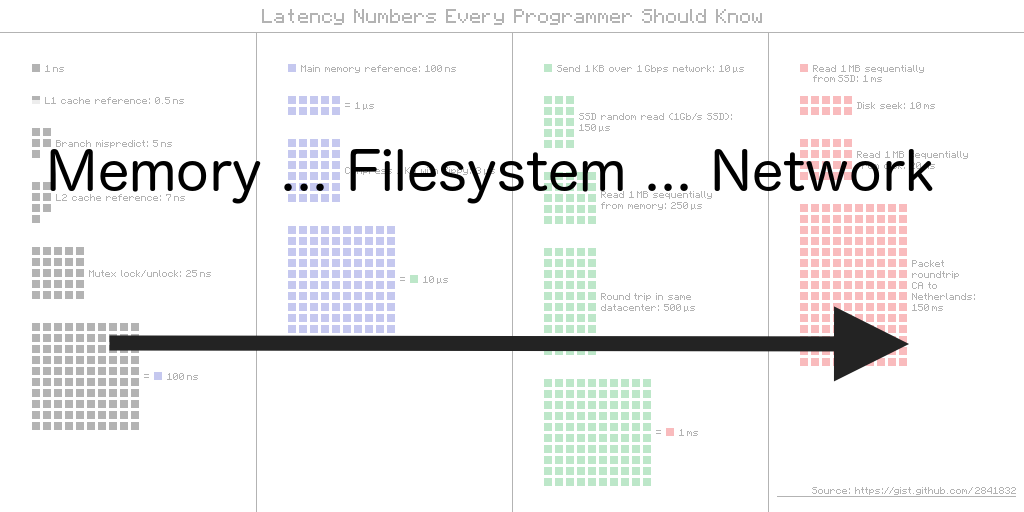
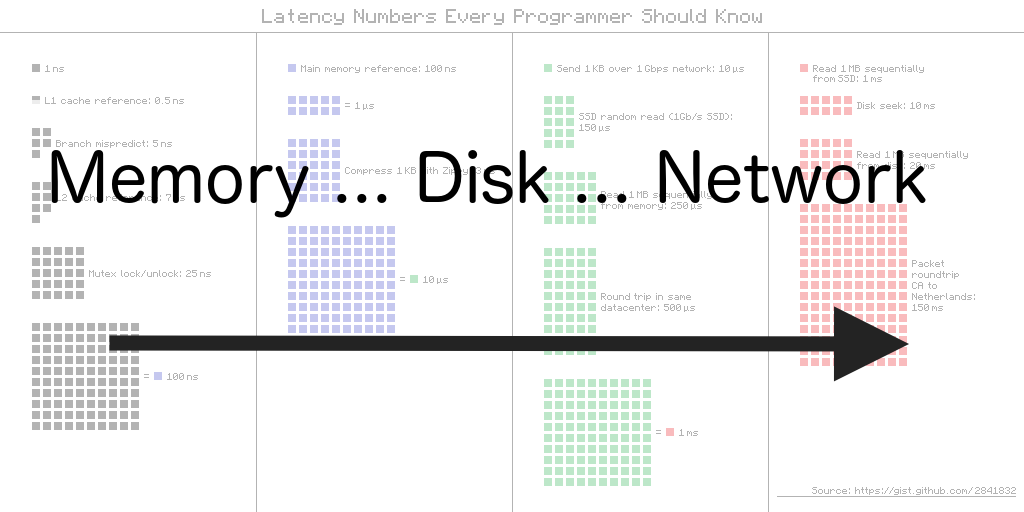
fs -> disk

Changed region(s): [[0.0312, 0.2812, 0.9062, 0.4062], [0.25, 0.4062, 0.2812, 0.4375]]

diff --git a/index.html b/index.html
@@ -360,7 +360,7 @@
           <h4>Memory</h4>
         </div>
         <div class="fragment" data-fragment-index="1">
-          <h4>Filesystem</h4>
+          <h4>Disk</h4>
         </div>
         <div class="fragment" data-fragment-index="2">
           <h4>Network</h4>
